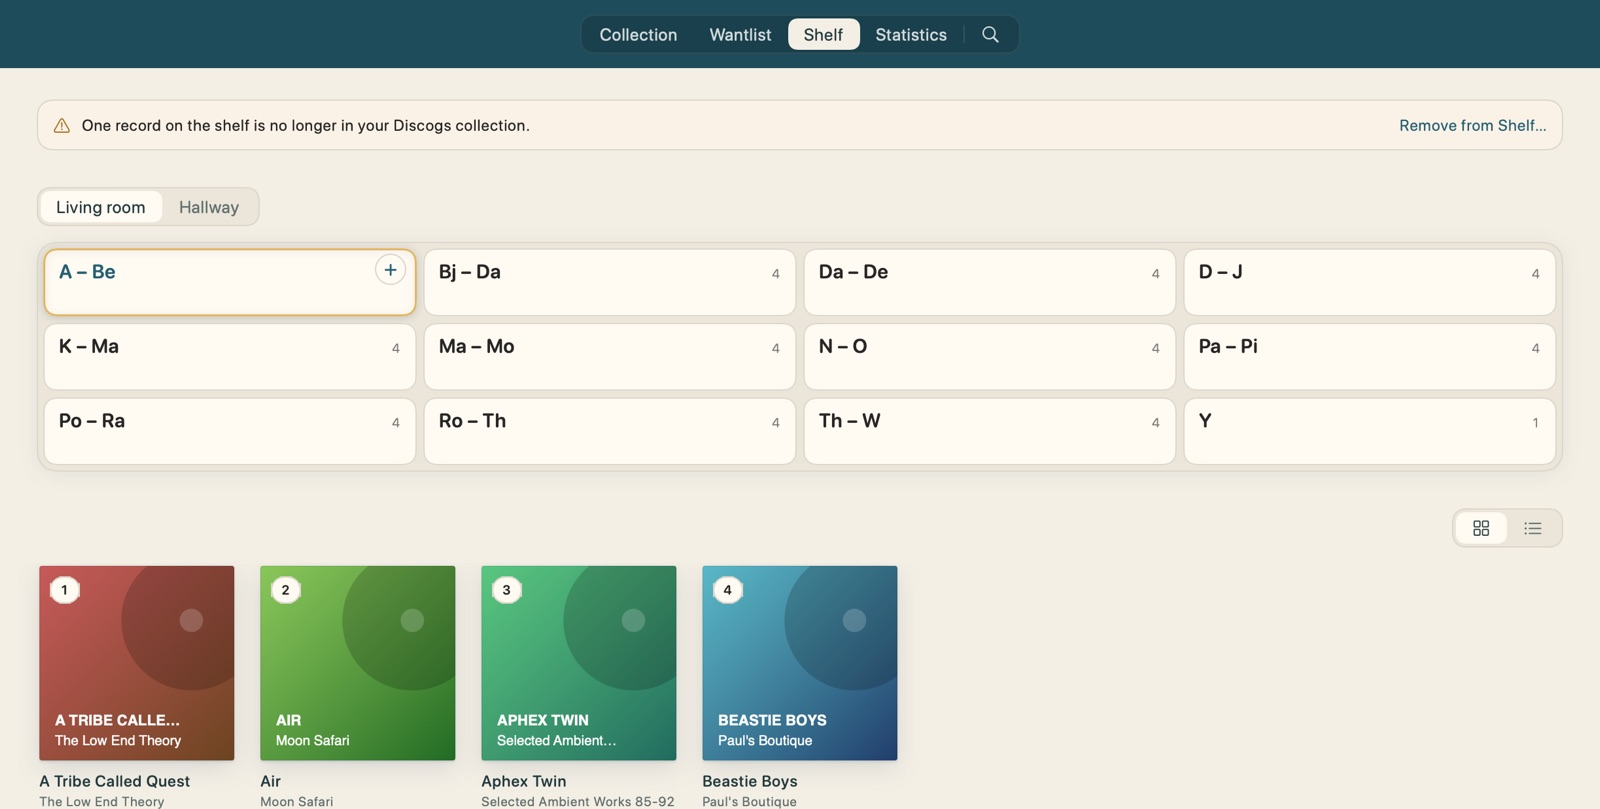
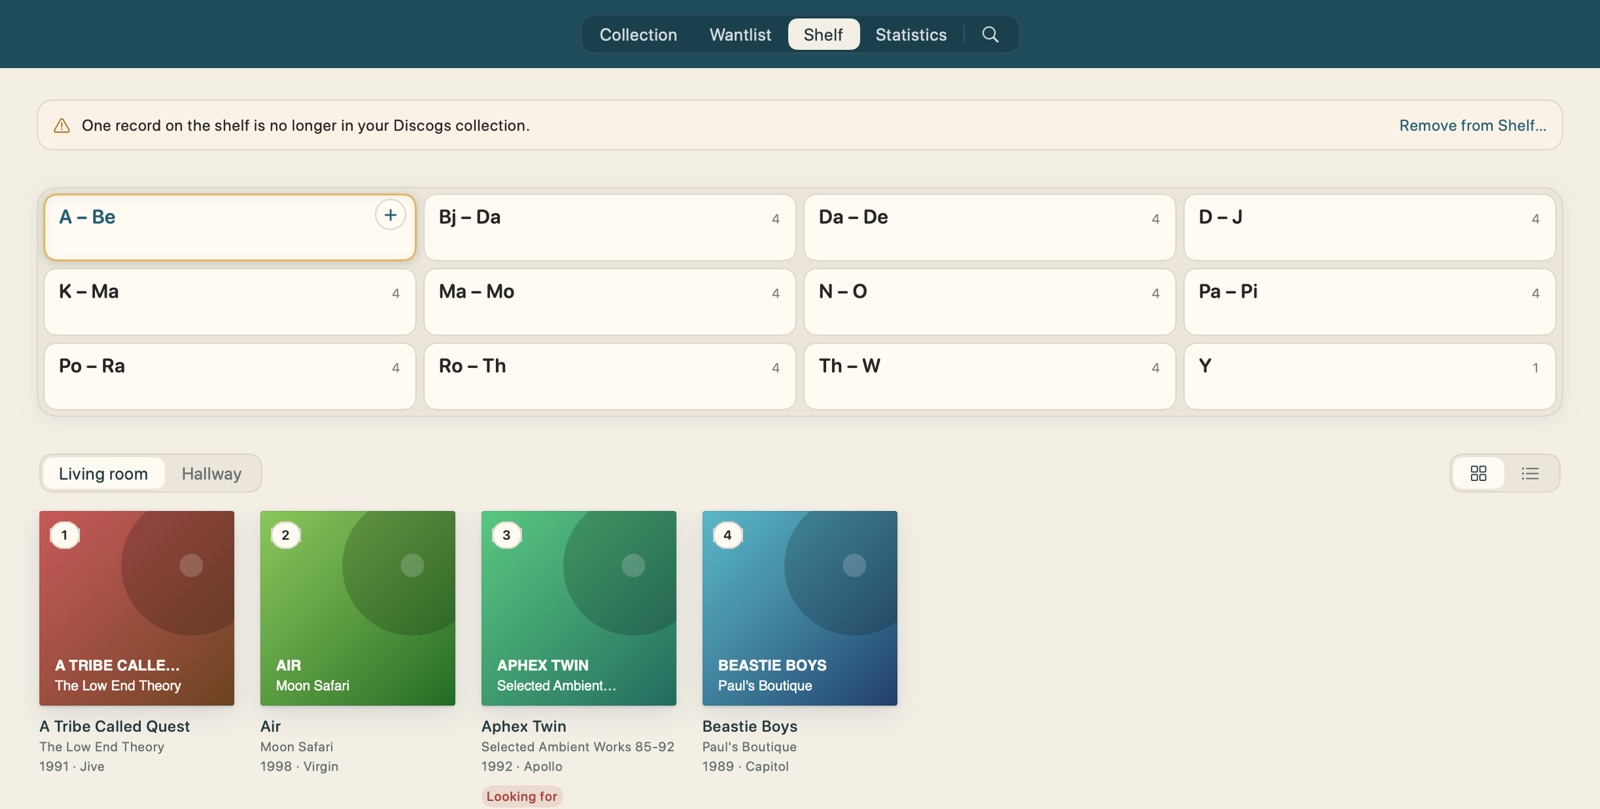
Regal: Regal-Reiter unten links über dem Fachinhalt, in einer Zeile mit Raster/Liste und bündig mit den Covern; Handbuch-Bilder, README, Doku

diff --git a/Plattenregal/Views/Shelf/KallaxView.swift b/Plattenregal/Views/Shelf/KallaxView.swift
@@ -101,6 +101,8 @@ struct KallaxView: View {
     @State private var settingsTab: AppSettingsView.Tab?
     /// The side the next cabinet slides in from (see `show(_:)`).
     @AppStorage(ShelfLabelStyle.key) private var labelStyle = ShelfLabelStyle.range
+    /// Raster oder Liste der Fachinhalte (the same setting `ShelfContentsView` reads).
+    @AppStorage(ShelfContentsView.layoutKey) private var contentsLayout = OverviewLayout.grid
 
     /// Compartments of the active cabinets, cabinet by cabinet in reading
     /// order. Inactive cabinets keep their records but stay off this page.
@@ -301,7 +303,6 @@ struct KallaxView: View {
                         }
                     }
                 }
-                if page.cabinets.count > 1 { cabinetSwitcher(page) }
                 // One slot: the old cabinet fades out where the new one settles in.
                 ZStack {
                     ShelfFurniture(
@@ -325,8 +326,11 @@ struct KallaxView: View {
                     .id(cabinet?.id)
                     .transition(AppStyle.pageTransition)
                 }
-                shelfDetail(page.shelf)
-                    .frame(maxHeight: .infinity, alignment: .top)
+                VStack(alignment: .leading, spacing: AppStyle.rowSpacing) {
+                    contentsBar(page)
+                    shelfDetail(page.shelf)
+                }
+                .frame(maxHeight: .infinity, alignment: .top)
             }
             .padding(.horizontal, AppStyle.pageMargin)
             .padding(.top, AppStyle.pageTopPadding(AppStyle.pagePadding))
@@ -444,31 +448,53 @@ struct KallaxView: View {
         !DemoMode.isActive && !allCopies.isEmpty && !allCopies.contains { $0.shelf != nil }
     }
 
+    /// The row between rack and contents: the cabinet tabs on the left (with
+    /// more than one cabinet), the grid/list picker on the right (when the
+    /// compartment shows records). Absent when it would be empty.
+    @ViewBuilder private func contentsBar(_ shown: Shown) -> some View {
+        let tabs = shown.cabinets.count > 1
+        let picker = shown.shelf.map { !$0.isReserved && !$0.copies.isEmpty } ?? false
+        if tabs || picker {
+            HStack(spacing: AppStyle.itemSpacing) {
+                if tabs { cabinetSwitcher(shown) }
+                Spacer(minLength: AppStyle.rowSpacing)
+                if picker {
+                    OverviewLayoutPicker(selection: $contentsLayout)
+                        .accessibilityLabel("Ansicht der Fachinhalte")
+                        .transition(.opacity)
+                }
+            }
+            // Flush with the covers below, which stand in by this much
+            // (room for their shadows, see `ShelfContentsView.gridScroll`).
+            .padding(.horizontal, AppStyle.hairSpacing)
+            .animation(AppStyle.fadeAnimation, value: picker)
+        }
+    }
+
     /// One tab per active cabinet; ⌘← / ⌘→ step through them.
     private func cabinetSwitcher(_ shown: Shown) -> some View {
-        HStack(spacing: AppStyle.itemSpacing) {
-            GlassSegmentedPicker(
-                selection: Binding(get: { shown.cabinet?.id }, set: { id in
-                    if let cabinet = activeCabinets.first(where: { $0.id == id }) { show(cabinet) }
-                }),
-                options: shown.cabinets.map { Optional($0.id) },
-                separators: true,
-                secondaryClick: { id, point in if let id { cabinetMenu = (id, point) } }
-            ) { id in
-                cabinetTab(shown.cabinets.first { $0.id == id })
-            }
-            .accessibilityLabel("Regal")
-            Spacer()
+        GlassSegmentedPicker(
+            selection: Binding(get: { shown.cabinet?.id }, set: { id in
+                if let cabinet = activeCabinets.first(where: { $0.id == id }) { show(cabinet) }
+            }),
+            options: shown.cabinets.map { Optional($0.id) },
+            separators: true,
+            secondaryClick: { id, point in if let id { cabinetMenu = (id, point) } }
+        ) { id in
+            cabinetTab(shown.cabinets.first { $0.id == id })
+        }
+        .accessibilityLabel("Regal")
+        .help("Zwischen den Regalen wechseln: ⌘← / ⌘→")
+        .background {
             Button("Vorheriges Regal") { stepCabinet(-1) }
                 .keyboardShortcut(.leftArrow, modifiers: .command)
-                .hidden().frame(width: 0)
+                .hidden().frame(width: 0, height: 0)
+                .accessibilityHidden(true)
             Button("Nächstes Regal") { stepCabinet(1) }
                 .keyboardShortcut(.rightArrow, modifiers: .command)
-                .hidden().frame(width: 0)
+                .hidden().frame(width: 0, height: 0)
+                .accessibilityHidden(true)
         }
-        // Tabs and rack belong together: a row's gap instead of a block's.
-        .padding(.bottom, AppStyle.rowSpacing - AppStyle.blockSpacing)
-        .help("Zwischen den Regalen wechseln: ⌘← / ⌘→")
     }
 
     /// A tab's name, carrying its right-click menu and the name popover –

diff --git a/Plattenregal/Views/Shelf/ShelfContentsView.swift b/Plattenregal/Views/Shelf/ShelfContentsView.swift
@@ -32,7 +32,14 @@ struct ShelfContentsView: View, Equatable {
         a.shelf === b.shelf && a.session === b.session && a.owner == b.owner && a.missing == b.missing
             && a.focusCopy === b.focusCopy && a.focusRevision == b.focusRevision
     }
-    @AppStorage("shelfContentsLayout") private var layout = OverviewLayout.grid
+    /// Raster oder Liste, gewählt im Umschalter über den Inhalten (`KallaxView`).
+    @AppStorage(ShelfContentsView.layoutKey) private var storedLayout = OverviewLayout.grid
+    static let layoutKey = "shelfContentsLayout"
+    /// The presentation on screen. It follows `storedLayout` one step later
+    /// (see `body`), so the grid's scroll capture is closed before the
+    /// incoming presentation mounts and can publish row zero.
+    @State private var shownLayout: OverviewLayout?
+    private var layout: OverviewLayout { shownLayout ?? storedLayout }
     @AppStorage(DisplaySettings.missingListKey) private var missingEnabled = true
     @AppStorage(DisplaySettings.saleListKey) private var saleEnabled = true
     /// Records on the "Verkauf" list (settings tab "Listen"); none while the
@@ -84,14 +91,6 @@ struct ShelfContentsView: View, Equatable {
             hasher.combine(forSale.contains(copy.id))
         }
         return hasher.finalize()
-    }
-
-    private var layoutSelection: Binding<OverviewLayout> {
-        Binding(get: { layout }, set: { value in
-            // Close capture before SwiftUI mounts the incoming presentation.
-            gridRestorePending = true
-            layout = value
-        })
     }
 
     private var selection: Binding<UUID?> {
@@ -237,20 +236,18 @@ struct ShelfContentsView: View, Equatable {
 
     var body: some View {
         ScrollViewReader { proxy in
-            VStack(alignment: .leading, spacing: AppStyle.rowSpacing) {
-                HStack(spacing: AppStyle.itemSpacing) {
-                    Spacer(minLength: AppStyle.rowSpacing)
-                    OverviewLayoutPicker(selection: layoutSelection.animation(AppStyle.fadeAnimation))
-                        .accessibilityLabel("Ansicht der Fachinhalte")
-                }
-                // One slot for both: while fading between them, grid and
-                // table overlap instead of sharing the height.
-                ZStack(alignment: .topLeading) {
-                    if layout == .grid { grid(proxy) }
-                    else { table }
-                }
+            // One slot for both: while fading between them, grid and
+            // table overlap instead of sharing the height.
+            ZStack(alignment: .topLeading) {
+                if layout == .grid { grid(proxy) }
+                else { table }
             }
             .frame(maxWidth: .infinity, maxHeight: .infinity, alignment: .topLeading)
+            // The picker sits on the page; close capture first, then switch.
+            .onChange(of: storedLayout) { _, value in
+                gridRestorePending = true
+                withAnimation(AppStyle.fadeAnimation) { shownLayout = value }
+            }
             .alert("Änderung nicht möglich", isPresented: Binding(get: { error != nil }, set: { if !$0 { error = nil } })) {
                 Button("OK") {}
             } message: { Text(error ?? "") }

diff --git a/Handbuch/Handbook.html b/Handbuch/Handbook.html
@@ -525,7 +525,7 @@
 
   <figure style="margin-top: var(--s-2xl)">
     <img src="Bilder/en/shelf.jpg" alt="">
-    <figcaption>The shelf page: the shelves as tabs at the top, below them the compartments with their letter range and number of records, at the bottom the contents of the selected compartment (gold border).</figcaption>
+    <figcaption>The shelf page: the compartments with their letter range and number of records at the top, below them the shelves as tabs on the left and grid or list on the right, at the bottom the contents of the selected compartment (gold border).</figcaption>
   </figure>
 
   <p style="margin-top: var(--s-l)">Plattenregal names the compartments itself after the letter range they hold, for example <span class="nowrap">“A – Be”</span>. A click selects a compartment. Below it, its records appear in their order, as covers or as a list. Clicking a cover opens “Edit Copy”, where a slider moves the record to another position.</p>

diff --git a/Handbuch/Handbuch.html b/Handbuch/Handbuch.html
@@ -524,7 +524,7 @@
 
   <figure style="margin-top: var(--s-2xl)">
     <img src="Bilder/de/shelf.jpg" alt="">
-    <figcaption>Die Regalseite: oben die Regale als Reiter, darunter die Fächer mit Buchstabenbereich und Plattenanzahl, unten der Inhalt des gewählten Fachs (Goldrand).</figcaption>
+    <figcaption>Die Regalseite: oben die Fächer mit Buchstabenbereich und Plattenanzahl, darunter links die Regale als Reiter, rechts Raster oder Liste, unten der Inhalt des gewählten Fachs (Goldrand).</figcaption>
   </figure>
 
   <p style="margin-top: var(--s-l)">Die Fächer benennt Plattenregal selbst nach dem Buchstabenbereich, der darin steht, etwa <span class="nowrap">„A – Be“</span>. Ein Klick wählt ein Fach. Darunter stehen seine Platten in ihrer Reihenfolge, als Cover oder als Liste. Ein Klick auf ein Cover öffnet „Exemplar bearbeiten“, dort verschiebst du die Platte mit einem Regler an eine andere Position.</p>

diff --git a/README.md b/README.md
@@ -22,7 +22,7 @@ Das Projekt ist für lokales Ad-hoc-Signing eingerichtet und braucht kein bezahl
 - **Collection und Wantlist aus Discogs.** Es gibt keine manuell angelegten Platten: Alles kommt aus dem Discogs-Konto. Abgeglichen wird auf Wunsch: die Collection auf ihrer Seite (mit zwei Fingern auf dem Trackpad nach unten ziehen, nicht durch Schwung, oder ⌘R) oder in den Einstellungen, die Wantlist in ihrer eigenen Ansicht. Danach werden die Tracklisten (mit den YouTube-Videos, die Discogs zur Platte führt) im Hintergrund nachgeladen, mit Fortschritt in der Statuszeile. Lehnt Discogs fünf Releases nacheinander ab (403) oder schickt Unlesbares, hält der Download an und meldet, wie viele fehlen – meist liegt es dann am Token oder an einer Störung bei Discogs, nicht an den Platten; der Rest folgt beim nächsten Abgleich oder Start (`tracklistRefusalLimit`). Platten, deren Tracklist schon vor den Videos geladen war, fragt die App einmal nach. Was noch fehlt oder nach 180 Tagen auffrischen soll, lädt die App beim nächsten Start nach, dann unsichtbar: ohne Statuszeile und ohne „Synchronisierung abgeschlossen“. Sichtbar ist das Laden nur bei einem Abgleich, den du selbst startest. „x“ oder ⌘. bricht ab: Vor dem Speichern wird nichts übernommen; ist die Sammlung schon gespeichert (es fehlen nur noch Sammlungswert oder Tracklisten), endet der Abgleich still, und die Tracklisten folgen beim nächsten Abgleich oder Start. Ohne Token führt eine leere Collection oder Wantlist mit „Token eintragen“ direkt ins Token-Feld der Einstellungen.
 - **Platten ansehen.** Ein Klick auf ein Cover (in der Liste ein Doppelklick) zeigt ein kleines Popover mit Cover, Angaben und Tracklist – in Collection und Wantlist. Jeder Track der Tracklist ist anklickbar und sieht im Ruhezustand aus wie bisher; unter dem Mauszeiger hebt sich die Zeile ab wie andere anklickbare Zeilen. Der Klick öffnet im Browser das YouTube-Video, das Discogs für genau diesen Track führt, sonst eine YouTube-Suche nach Interpret und Track (bei „Various“ nur nach dem Track); der Hinweistext sagt, welches von beiden. Die Videos kommen mit derselben Discogs-Anfrage wie die Tracklist; übernommen werden nur YouTube-Adressen, immer über https (die Links tragen Discogs-Nutzer ein). Zugeordnet wird über den Titel (`Discogs/TrackVideos.swift`): Ein Teil des Videotitels (getrennt an „ - “, „|“ …) muss genau der Tracktitel sein, die Wörter des Mixes müssen in den Klammern oder hinter dem Titel stehen, und das Video darf keine andere Fassung nennen („Remix“, „Edit“, „Live“, „Full Album“ … oder den Mix eines anderen Tracks). „Original Mix“ zählt als kein Mix, „Rmx“ wie „Remix“. Was nicht eindeutig passt, bleibt bei der Suche. Videos, die zu keinem Track passen, zeigt die App nicht an. Fehlen einer Platte die Videos noch (Tracklist von vor dem Update), holt das Popover sie beim Öffnen still nach, auch während der Hintergrund-Download läuft; kennt Discogs die Platte nicht mehr, wird sie nicht bei jedem Öffnen erneut angefragt. Rechtsklick öffnet ein App-eigenes Menü (schlichte Textzeilen ohne Symbole und Trennlinien, wie alle Rechtsklick-Menüs der App): in der Collection „Im Regal anzeigen“ bzw. „Platz im Regal finden“, „Auf Discogs öffnen“, „Ohne Regalplatz“ bzw. „Wieder einsortieren“ sowie – je nach Einstellung unter „Listen“ – „Auf die Suchliste setzen“ und „Zum Verkauf vormerken“; in der Wantlist „Auf Discogs öffnen“. Mehrfachauswahl und die große Detailansicht gibt es in Collection und Wantlist nicht mehr.
 - **Reihenfolge** von Collection und Wantlist, je getrennt: alphabetisch, zufällig (bei jedem Start und beim Umschalten neu gemischt, sonst stabil) oder neueste zuerst (nach Discogs-Hinzufügedatum).
-- **Regale und Fächer.** Beliebig viele Regale (IKEA-KALLAX-Größen oder eigene, 1–6 Spalten und Reihen), oben als Reiter mit feinen Trennlinien (ein anderes Regal blendet an seinem Platz ein und setzt sich von oben ab, statt von der Seite hereinzufahren); jedes Fach zeigt, wie viele Platten darin stehen. Platten einsortieren, verschieben, herausnehmen, Sortierung prüfen, Fächer sperren (z. B. für Deko; per Rechtsklick auf das Fach, gesperrte Fächer bekommen dort auch einen Namen) und Platten als „Ohne Regalplatz“ markieren. Fächer heißen nach Buchstabenbereich („A – Be“) oder Nummer. Das Regal ist ein Glaskörper mit Mulden: Das Fach unter dem Zeiger hellt sich auf, das gewählte hebt sich heraus und blendet dabei im eigenen Fach ein (es gleitet nicht übers Regal). Darunter stehen die Platten des gewählten Fachs, standardmäßig als Cover-Raster, wahlweise als Liste (Umschalter rechts über dem Inhalt, unabhängig von Collection und Wantlist). Das Raster folgt der gespeicherten Fachreihenfolge und zeigt pro Exemplar Position, Interpret und Titel; die Liste lässt sich nach Spalten sortieren, ohne die gespeicherten Positionen zu ändern. Beide Ansichten merken sich die Scrollstelle je Fach während der Sitzung. Ein Klick auf ein Cover oder ein Doppelklick in der Liste öffnet „Exemplar bearbeiten“ mit einem Regler für die Position im aktuellen Fach; weitere Aktionen stehen im Rechtsklick-Menü („Platz im Regal zeigen“, „Auf die Suchliste setzen“, „Ohne Regalplatz“, „Aus Fach entfernen“). Bereich und Plattenzahl zeigt das Fach selbst, eine eigene Titelzeile gibt es nicht; einen Streifen mit Plattenrücken auch nicht mehr – wo eine Platte steht, sagen Fachinhalt, Suchtreffer und Einsortier-Karte. Sind Platten da, aber keine einsortiert, bietet die Seite „Belegung wiederherstellen …“ an.
+- **Regale und Fächer.** Beliebig viele Regale (IKEA-KALLAX-Größen oder eigene, 1–6 Spalten und Reihen), als Reiter mit feinen Trennlinien links über dem Fachinhalt, in einer Zeile mit dem Raster/Liste-Umschalter und bündig mit den Covern (ein anderes Regal blendet an seinem Platz ein und setzt sich von oben ab, statt von der Seite hereinzufahren); jedes Fach zeigt, wie viele Platten darin stehen. Platten einsortieren, verschieben, herausnehmen, Sortierung prüfen, Fächer sperren (z. B. für Deko; per Rechtsklick auf das Fach, gesperrte Fächer bekommen dort auch einen Namen) und Platten als „Ohne Regalplatz“ markieren. Fächer heißen nach Buchstabenbereich („A – Be“) oder Nummer. Das Regal ist ein Glaskörper mit Mulden: Das Fach unter dem Zeiger hellt sich auf, das gewählte hebt sich heraus und blendet dabei im eigenen Fach ein (es gleitet nicht übers Regal). Darunter stehen die Platten des gewählten Fachs, standardmäßig als Cover-Raster, wahlweise als Liste (Umschalter rechts über dem Inhalt, gegenüber den Regal-Reitern, unabhängig von Collection und Wantlist; bei leerem oder gesperrtem Fach entfällt er, bei nur einem Regal die Reiter, und ohne beides die ganze Zeile). Das Raster folgt der gespeicherten Fachreihenfolge und zeigt pro Exemplar Position, Interpret und Titel; die Liste lässt sich nach Spalten sortieren, ohne die gespeicherten Positionen zu ändern. Beide Ansichten merken sich die Scrollstelle je Fach während der Sitzung. Ein Klick auf ein Cover oder ein Doppelklick in der Liste öffnet „Exemplar bearbeiten“ mit einem Regler für die Position im aktuellen Fach; weitere Aktionen stehen im Rechtsklick-Menü („Platz im Regal zeigen“, „Auf die Suchliste setzen“, „Ohne Regalplatz“, „Aus Fach entfernen“). Bereich und Plattenzahl zeigt das Fach selbst, eine eigene Titelzeile gibt es nicht; einen Streifen mit Plattenrücken auch nicht mehr – wo eine Platte steht, sagen Fachinhalt, Suchtreffer und Einsortier-Karte. Sind Platten da, aber keine einsortiert, bietet die Seite „Belegung wiederherstellen …“ an.
 - **„Einsortieren“** über den runden „+“-Knopf unten rechts auf der Regalseite: dasselbe Fenster wie „Platte hinzufügen“, aber ohne vorher ein Fach zu wählen. Es zeigt alle noch nicht einsortierten Platten nach Interpret, je eine Zeile über die Fensterbreite: links das Cover, so groß wie im Fachinhalt, daneben Interpret, Titel, Jahr · Label und darunter groß der Standort – Regal und Fach (in der Akzentfarbe), dann Position und Nachbarn („Position 3 · zwischen „Boards of Canada“ und „Can““). Ein Klick auf die Zeile setzt die Platte genau dorthin. Alle aktiven Regale gelten dabei als ein Alphabet (etwa KALLAX bis „X“, EKET „Y – Z“). Passt eine Platte ans Ende des einen und an den Anfang des nächsten Fachs gleich gut – auch über zwei Regale hinweg –, entscheidet in dieser Reihenfolge: die Seite, auf der schon derselbe Interpret steht, das offene Fach, das gezeigte Regal, sonst das frühere Fach (`AlphabeticalPlacement.preferredIndex`; ebenso die Einsortier-Karte der Suche). Wer eine Platte bewusst in ein bestimmtes Fach legen will, nimmt das „+“ am Fach („Platte hinzufügen“): Dort kommt sie in dieses Fach, an ihre alphabetische Stelle darin. Die nächste Platte nach Interpret trägt „Als Nächstes“. Beim Schließen springt das Regal zur zuletzt einsortierten Platte. Rechtsklick: „Einsortieren“ und „Auf die Suchliste setzen“.
 - **„Platte hinzufügen“** über das kleine runde „+“ oben rechts im Fach (Glas in Modern, Papier in Klassisch, `SmallRoundButton`) – es erscheint beim Überfahren und im gewählten Fach an der Stelle der Plattenanzahl und blendet beim Fachwechsel ein und aus – oder per Rechtsklick. Dieselben Zeilen, ohne Überschrift und Suchfeld: zuerst die Platten, die alphabetisch in das Fach passen, dann die übrigen mit „Gehört in „…““ (grau) samt Position und Nachbarn dort. Gesuchte Platten stehen nicht im Fenster. Ein Klick fügt die Platte an ihrer alphabetischen Stelle in dieses Fach ein (auch eine, die eigentlich woanders hingehört); die Fachkarte darüber zeigt, zwischen welche beiden Platten sie kommt.
 - **Verlauf** (Uhr-Knopf über dem „+“ auf der Regalseite, ⌘Y): aufgebaut wie „Platte hinzufügen“: oben eine Karte („Verlauf“, rechts die Zahl der in diesem Fenster zurückgenommenen Änderungen), darunter je Änderung eine große Zeile mit dem Cover in Fachgröße, der Beschriftung wie im Fach und größer, was passiert ist (Akzentfarbe, solange es sich zurücknehmen lässt), mit Uhrzeit und Position. Jede Platte, die einsortiert, verschoben oder aus einem Fach genommen wurde, die neueste oben, nach Tagen gruppiert. Der Knopf „Rückgängig“ stellt sie dorthin zurück, wo sie vorher stand – eine einsortierte wieder auf „Noch nicht einsortiert“, samt „Gesucht“ bzw. „Ohne Regalplatz“, falls das Einsortieren sie aufgehoben hatte. Das Fenster bleibt offen, mehrere Einträge lassen sich nacheinander zurücknehmen. Geht es nicht, sagt eine Marke an der Stelle des Knopfs, warum („Rückgängig gemacht“ oder: „Seitdem bewegt“ (erst die neuere Änderung dieser Platte zurücknehmen), „Fach gesperrt“, „Fach gibt es nicht mehr“, „Ohne Regalplatz“, „Nicht mehr in der Sammlung“); zurückgenommene Einträge bleiben gedämpft stehen. Gespeichert in der Datenbank (`ShelfHistoryEntry`, `ShelfHistory`), die neuesten 1.000 Einträge bleiben; „Standorte zurücksetzen“, „Alles zurücksetzen“ und das Wiederherstellen einer Sicherung leeren ihn. Nicht im Verlauf: „Ohne Regalplatz“, „Verkauft“, das Sortieren eines Fachs. Auch „Aus Fach entfernt … Rückgängig“ (⌘Z) läuft über ihn.

diff --git a/AENDERUNGEN.md b/AENDERUNGEN.md
@@ -1,3 +1,11 @@
+# Regal: Regal-Reiter unten über dem Fachinhalt · 30.10.2026
+
+- **Verschoben (auf Wunsch):** Die Reiter der Regale (z. B. „KALLAX · EKET“) stehen nicht mehr über dem Regalbild, sondern darunter links in der Zeile über den Covern, gegenüber dem Raster/Liste-Umschalter (`KallaxView.contentsBar`). Die Zeile gehört jetzt der Regalseite statt der Fachansicht. Bei leerem oder gesperrtem Fach entfällt der Umschalter, bei nur einem Regal die Reiter, ohne beides die ganze Zeile. Die Einsortier-Karte steht unter der Zeile, über den Covern. ⌘← / ⌘→, Rechtsklick-Menü und „Regal umbenennen …“ bleiben wie gehabt.
+- **Bündig:** Die Cover stehen um `AppStyle.hairSpacing` eingerückt (Platz für ihre Schatten). Die Zeile ist um genau diese Stufe eingerückt, damit Reiter und erstes Cover auf einer Linie stehen (eine erste Fassung ragte 2 pt nach links über das Cover hinaus).
+- **Scroll-Gedächtnis:** Der Umschalter sitzt nicht mehr in `ShelfContentsView`. Die Fachansicht folgt der Einstellung jetzt selbst einen Schritt später (`shownLayout`): Erst wird das Merken der Scrollstelle gesperrt, dann wechselt die Darstellung. So überschreibt das neu eingeblendete Raster die gemerkte Stelle nicht, wie bisher.
+- Handbuch: Regal-Bilder (`shelf`, `sortin`, de/en) neu aufgenommen, Bildunterschriften angepasst; README angepasst.
+- Geprüft: Debug-Build ohne Fehler und Warnungen, 244 Tests bestanden. In der Demo (zwei Regale) per `--snapshot` angesehen: Klassisch hell, Modern hell und Modern dunkel, mit Einsortier-Karte (`--preview-place=Air`). In Klassisch pixelgenau gemessen: Kapselrand und Coverrand beginnen in derselben Spalte (Abweichung 0). **Nicht geprüft:** Umschalten Raster ↔ Liste per Klick in der laufenden App (Scrollstelle danach), Regalwechsel per Klick und ⌘←/⌘→, Fach mit nur einem Regal, die echte Sammlung. In Modern zeichnet `--snapshot` das Glas der Kapsel nicht, dort ist die Kante nur aus dem Code abgeleitet.
+
 # DMG 1.0.0 mit Modern unter der Leiste neu ausgegeben · 26.10.2026
 
 - `dist/Plattenregal-1.0.0.dmg` neu gebaut mit `Scripts/make-dmg.sh` (Release, Build 102026, Versionsnummer unverändert). Enthält die fließend schmaler werdende Leiste, Modern unter der Leiste mit weichem Ausblenden, die halbfette Auswahl ohne Rand und die Korrektur der Einstellungen. Handbuch-PDFs unverändert.
